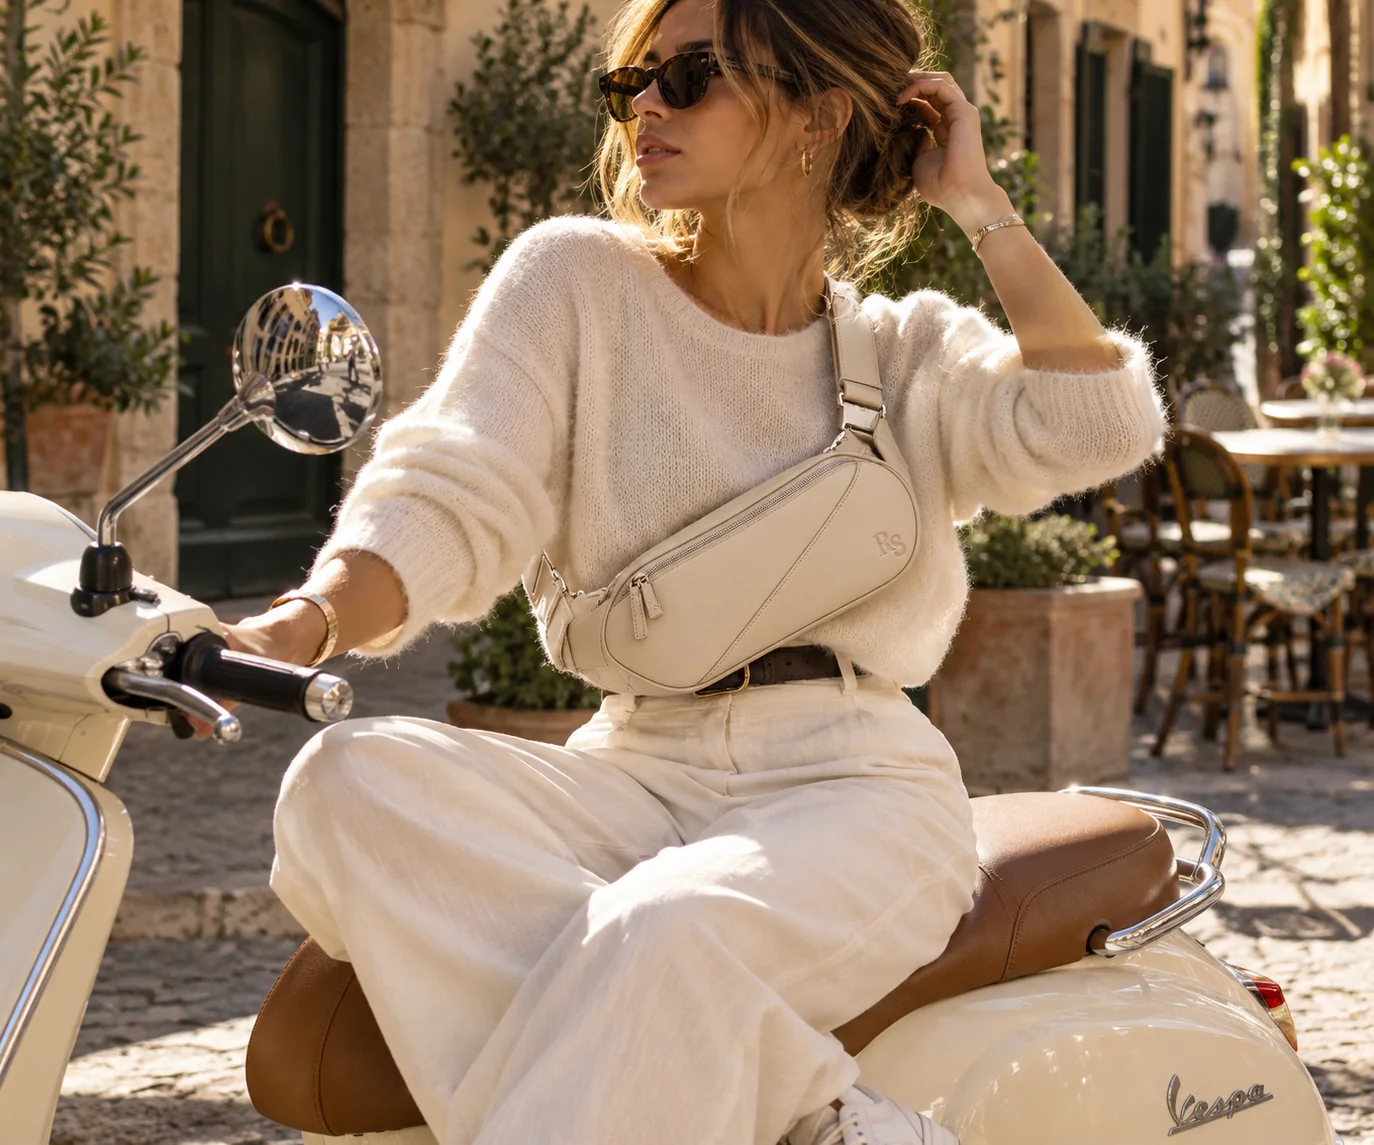
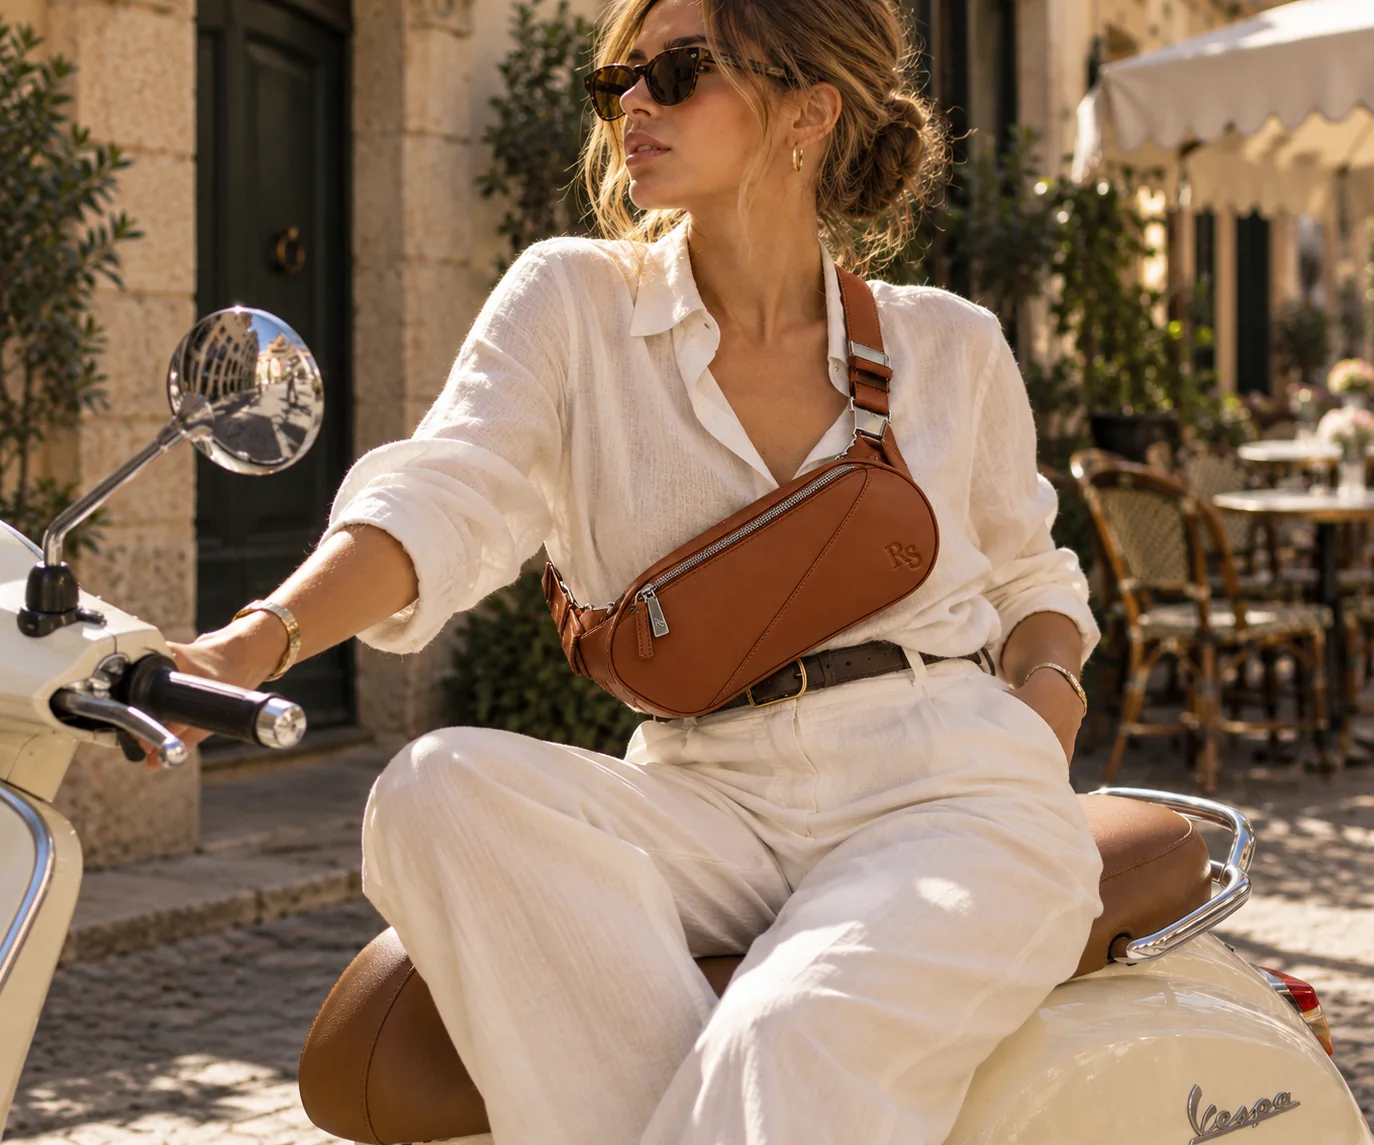
Swap the Rally on-body photo for the Cognac version
Claude-Session: https://claude.ai/code/session_01B8bkzxFPHgXV8RdEvseNpg

diff --git a/index.html b/index.html
@@ -514,7 +514,7 @@ footer .label-sm{color:color-mix(in srgb,var(--ivory) 65%,transparent)}
           <button class="link" data-soon="This story is still on holiday. Back soon.">Read the story</button>
         </article>
         <article class="story">
-          <img src="img/rally-worn.webp" alt="A woman on a cream scooter in a sunlit piazza, wearing the Rally in Avorio across her body">
+          <img src="img/rally-worn.webp" alt="A woman on a cream scooter in a sunlit piazza, wearing the Rally in Cognac across her body">
           <div class="label-sm">Destinations / 003</div>
           <h3>The Scenic Route Is the Point</h3>
           <p>A celebration of detours, coastal roads, and the joy of arriving eventually.</p>
@@ -646,7 +646,7 @@ const PRODUCTS = [
    desc:"A low, curved belt bag with a diagonal panel and single-zip access. Wear it at the waist or across the body.",
    build:[["Carry","Adjustable waist or shoulder strap; side-release buckle"],["Closure","Single zip"]],
    details:["Zip pull","Edge finish","Strap buckle"], cover:"studio", gallery:true,
-   extras:[["img/rally-worn.webp","Worn across the body, in Avorio"]],
+   extras:[["img/rally-worn.webp","Worn across the body, in Cognac"]],
    studio:{heritage:"racer-studio-heritage.webp", cognac:"racer-studio-cognac.webp", avorio:"racer-studio-avorio.webp", nero:"racer-studio-nero.webp"}},
   {id:"duffel", slot:"monaco", code:"RS-01", name:"The Monaco", tag:"The travel duffel", say:"For leaving well.", range:[695,895], status:"later", def:"heritage",
    desc:"An aerodynamic east–west duffel with vertical leather panels, two handles and a removable strap.",

diff --git a/README.md b/README.md
@@ -73,6 +73,6 @@ To host it on GitHub Pages, turn on Pages in the repo settings and choose the `m
 - Prices are proposed retail ranges, not final MSRP.
 - Returns: 30 days from delivery, unused and in original condition with the dust bag. Shown in the product view and the bag. The delivery policy is not set yet.
 - The Portofino stays at $695 by decision, about $155 above the Polène Numéro Neuf Mini; the pricing story needs to justify the gap.
-- Photography: all five bags have studio cutouts in all four colorways. The hero (Portofino on a yacht deck) and Journal 002 (Portofino at a Paris café) use new editorial photos; the manifesto and the Portofino product view use a new on-body photo of the Portofino in Nero. Journal 003 and the Rally product view use the Rally in Avorio on a scooter. Other lifestyle and detail photos still come from the early brand boards, and some of them show earlier designs that Deck 01 rejected (the barrel duffel, the conventional tote, the flap backpack).
+- Photography: all five bags have studio cutouts in all four colorways. The hero (Portofino on a yacht deck) and Journal 002 (Portofino at a Paris café) use new editorial photos; the manifesto and the Portofino product view use a new on-body photo of the Portofino in Nero. Journal 003 and the Rally product view use the Rally in Cognac on a scooter. Other lifestyle and detail photos still come from the early brand boards, and some of them show earlier designs that Deck 01 rejected (the barrel duffel, the conventional tote, the flap backpack).
 - Colorways without a photo show a "Photo to come" tag.
 - Checkout, journal stories, Limited Issues and Our World aren't connected; their buttons show a short note.
